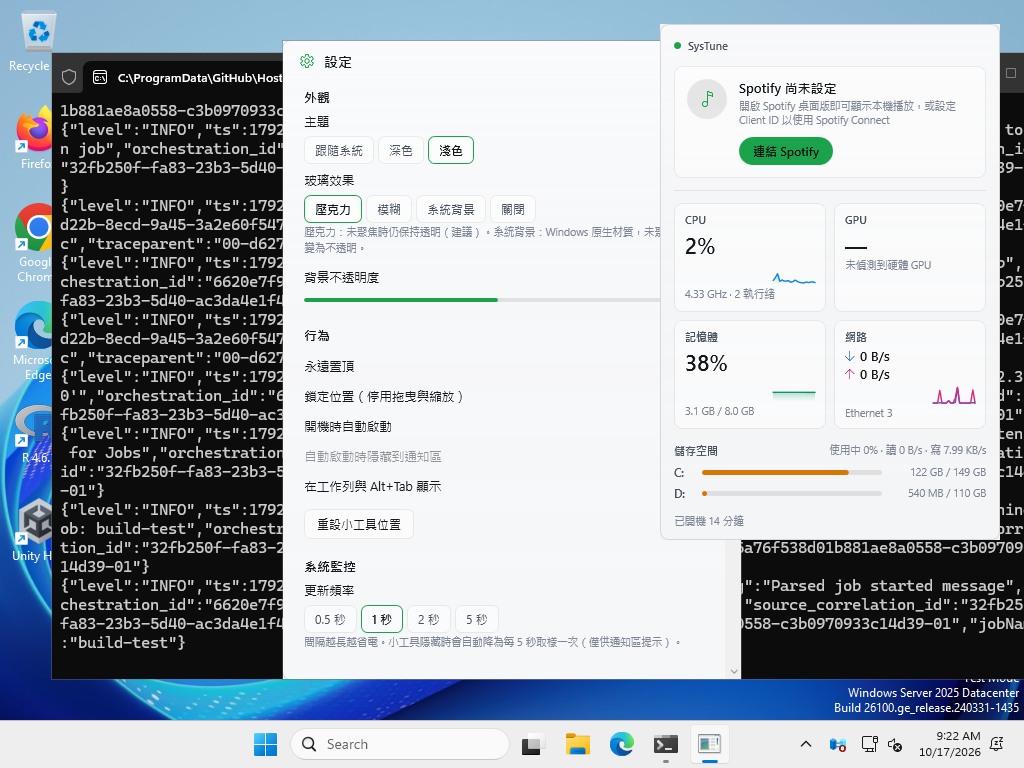
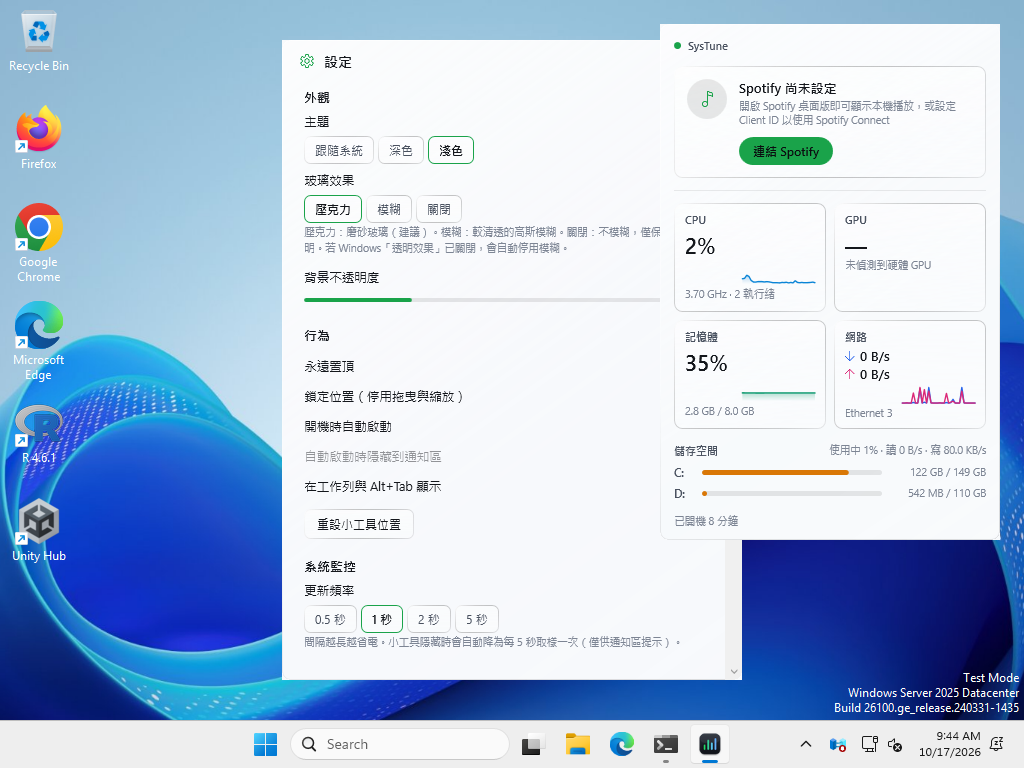
Docs: CI-verified translucency, glass limitations; rename Off to 無模糊
Claude-Session: https://claude.ai/code/session_01A3e8n5PKRFLLhBTb5eY7mF

diff --git a/src/SysTune.App/Views/SettingsWindow.xaml b/src/SysTune.App/Views/SettingsWindow.xaml
@@ -78,7 +78,7 @@
                     <WrapPanel>
                         <RadioButton Style="{StaticResource Segment}" GroupName="Glass" Content="壓克力" IsChecked="{Binding Glass, Converter={StaticResource EnumEquals}, ConverterParameter=Acrylic}" />
                         <RadioButton Style="{StaticResource Segment}" GroupName="Glass" Content="模糊" IsChecked="{Binding Glass, Converter={StaticResource EnumEquals}, ConverterParameter=Blur}" />
-                        <RadioButton Style="{StaticResource Segment}" GroupName="Glass" Content="關閉" IsChecked="{Binding Glass, Converter={StaticResource EnumEquals}, ConverterParameter=Off}" />
+                        <RadioButton Style="{StaticResource Segment}" GroupName="Glass" Content="無模糊" IsChecked="{Binding Glass, Converter={StaticResource EnumEquals}, ConverterParameter=Off}" />
                     </WrapPanel>
                     <TextBlock Text="{Binding GlassNote}" Style="{StaticResource Hint}" />
 

diff --git a/src/SysTune.App/ViewModels/SettingsViewModel.cs b/src/SysTune.App/ViewModels/SettingsViewModel.cs
@@ -73,8 +73,8 @@ public sealed partial class SettingsViewModel : ObservableObject
     public string RedirectUri => S.Spotify.RedirectUri;
 
     public string GlassNote => WindowEffects.IsWindows11
-        ? "壓克力：磨砂玻璃（建議）。模糊：較清透的高斯模糊。關閉：不模糊，僅保留半透明。若 Windows「透明效果」已關閉，會自動停用模糊。"
-        : "Windows 10 使用模糊效果（壓克力在 Windows 10 拖曳時會延遲）。關閉：不模糊，僅保留半透明。";
+        ? "壓克力：磨砂玻璃（建議）。模糊：較清透的高斯模糊。無模糊：不模糊，僅保留半透明。若 Windows「透明效果」已關閉，會自動停用模糊。"
+        : "Windows 10 使用模糊效果（壓克力在 Windows 10 拖曳時會延遲）。無模糊：不模糊，僅保留半透明。";
 
     public string VersionText => "版本 " + (Assembly.GetExecutingAssembly().GetCustomAttribute<AssemblyInformationalVersionAttribute>()?.InformationalVersion.Split('+')[0] ?? "1.0.0");
 

diff --git a/docs/TESTING.md b/docs/TESTING.md
@@ -58,13 +58,19 @@
 2. 第一次取樣時 `now - TimeSpan.MinValue` 溢位，導致所有指標顯示「—」→ 改用 nullable 時間戳。
 3. 雲端 VM 的網卡名為「Hyper-V Network Adapter」被誤判為虛擬網卡而顯示離線 → 改以「是否有預設閘道」選擇介面卡。
 
-截圖見 [`docs/screenshots`](screenshots/)（`*-full.png` 為完整螢幕）。CI Runner 的背景是終端機視窗且為伺服器版 Windows，壓克力模糊的實際觀感需在一般桌面確認。
+截圖見 [`docs/screenshots`](screenshots/)（`*-full.png` 為完整螢幕）。
+
+**玻璃／透明效果的驗證**：CI 會先開啟 Windows「透明效果」並最小化所有視窗，讓小工具直接疊在桌布上。
+- `dark-noblur`（無模糊模式）：桌布與背後的系統對話框清楚透出 → **WPF 逐像素透明（分層視窗）在 Windows 上已驗證有效**。
+- `dark-expanded`（壓克力模式）：記錄檔顯示 accent 已成功套用（`effective Acrylic, WPF render tier 2`），但畫面為實色。原因是 CI 虛擬機只有基本顯示驅動（無 GPU），Windows 在此環境以實色取代背景模糊。**模糊本身需在有 GPU 的實體電腦上確認**（列於人工驗證清單）。
+
+最新一次量測（分層視窗版本）：深色展開 59.7 MB 私有記憶體、CPU 1.56%（整機）/ 3.1%（單核心）；精簡模式 52.5 MB、0.86% / 1.7%。
 
 ## 人工驗證清單（實體 Windows 電腦）
 
 以下項目依賴實體硬體、使用者帳號或互動，目前**尚未**在實體電腦驗證：
 
-- [ ] Win11 壓克力／Win10 模糊效果的實際觀感、圓角與陰影
+- [ ] Win11 壓克力／Win10 模糊效果的實際觀感與圓角（CI 虛擬機無 GPU，無法呈現模糊）
 - [ ] 實體 GPU（NVIDIA / AMD / Intel）使用率與工作管理員一致；GPU 溫度
 - [ ] 以系統管理員執行 + PawnIO 時的 CPU 封裝溫度
 - [ ] Spotify Connect 實際登入、跨裝置顯示、切換裝置、音量、拖曳進度（需要 Premium 與開發者應用程式）
@@ -79,8 +85,8 @@
 - **CPU 溫度**：一般權限下只能讀取 ACPI 熱區（很多桌機主機板不提供，或數值固定）；CPU 封裝溫度需系統管理員權限 + 使用者自行安裝 PawnIO 驅動。
 - **Spotify 開發模式限制（2026/02 起）**：應用程式擁有者需 Premium；每個應用程式最多 5 位使用者；播放控制需 Premium。
 - **本機模式**只能看到這台電腦的 Spotify 桌面版，不能切換裝置或調整 Connect 音量；Microsoft Store 版與傳統版都支援。
-- **壓克力 accent API**（`SetWindowCompositionAttribute`）是 Windows 殼層長期使用但未公開文件化的 API；若未來 Windows 版本改變行為，可在設定改用「系統背景」（文件化 API）或「模糊」/「關閉」。
-- **「系統背景」模式**在視窗未聚焦時會變成不透明（Windows 設計如此）。
-- Windows「透明效果」關閉時自動改為不透明背景。
+- **壓克力 accent API**（`SetWindowCompositionAttribute`）是 Windows 殼層長期使用但未公開文件化的 API；若未來 Windows 版本改變行為，可在設定改用「無模糊」（純 WPF 半透明，不依賴該 API）。
+- 沒有 GPU 的虛擬機、部分遠端桌面工作階段、或 Windows「透明效果」／省電模式關閉時，Windows 不會繪製背景模糊（小工具仍為半透明或自動改為較不透明的底色以維持可讀性）。
+- 分層視窗沒有 Windows 11 原生視窗陰影；以玻璃高光邊框呈現層次。圓角以視窗區域裁切，邊緣不做反鋸齒。
 - 執行檔未經程式碼簽章，SmartScreen 會在首次執行時警告。
 - 介面目前僅提供繁體中文。

diff --git a/docs/ARCHITECTURE.md b/docs/ARCHITECTURE.md
@@ -6,7 +6,7 @@
 | --- | --- | --- |
 | 語言／執行環境 | C# 14 / **.NET 10 (LTS)** | 長期支援至 2028 年；可直接 P/Invoke Win32、DWM、PDH；可在 Linux CI 交叉編譯並在 Windows Runner 實測。 |
 | UI 框架 | **WPF** | 成熟穩定、硬體加速、支援 PerMonitorV2 DPI；可完全自訂樣式。WinUI 3 需要 Windows App SDK 執行階段與封裝，對單一小工具負擔較大；Electron/Tauri 記憶體或整合成本較高。 |
-| 玻璃效果 | DWM 延伸框架 + `SetWindowCompositionAttribute` 壓克力（Win11）/ 模糊（Win10），可選 `DWMWA_SYSTEMBACKDROP_TYPE` | 小工具幾乎都處於「未聚焦」狀態；DWM 系統背景材質在未聚焦時會變不透明，accent 壓克力不會。非分層（non-layered）視窗避免 `AllowsTransparency` 的軟體合成成本，並保留 Win11 原生圓角與陰影。 |
+| 玻璃效果 | 逐像素透明的分層視窗（`AllowsTransparency`）+ `SetWindowCompositionAttribute` 壓克力（Win11）/ 模糊（Win10）+ 圓角視窗區域 | 小工具幾乎都處於「未聚焦」狀態；DWM 系統背景材質在未聚焦時會變不透明，accent 壓克力不會。分層視窗的透明度不依賴 DWM 延伸框架，在 CI 實測可正確透出桌布；「無模糊」模式完全不依賴未文件化 API。 |
 | CPU 使用率 | `GetSystemTimes` 差值 | 與工作管理員一致、零配置、極低成本。 |
 | CPU 時脈 | PDH `Processor Information\% Processor Performance` × 基準時脈 | 工作管理員相同算法，免管理員權限。 |
 | GPU 使用率／VRAM | PDH `GPU Engine` / `GPU Adapter Memory` + **DXGI** 列舉介面卡 | 與工作管理員同源；Intel / AMD / NVIDIA 通用，不需廠商 SDK；以 LUID 對應介面卡。 |
@@ -77,7 +77,7 @@ DispatcherTimer 500ms (僅可見時) ──► 進度條外插（不打 API）
 - **方向**：Minimal / Glassmorphism / Premium / Windows Native。
 - **尺寸**：展開 340 DIP 寬（高度依內容），精簡 460×56 DIP 膠囊；右下角拖曳可等比縮放 85%–160%（保持設計比例，而非重新排版）。
 - **字體**：Segoe UI（中文退回 Microsoft JhengHei UI）；圖示使用 Segoe Fluent Icons（Win10 退回 Segoe MDL2 Assets），與系統一致且不需額外資源。
-- **層次**：玻璃（系統模糊）→ 可調不透明度的色調層 → 頂部微光漸層 → 1px 髮絲邊框；指標卡片使用極淡的白色/黑色疊層。
+- **層次**：系統模糊（含極淡底色，確保亮色桌布上的可讀性）→ 可調不透明度的色調層（預設 35%）→ 對角線光澤 → 左上亮、右下暗的漸層玻璃邊緣；指標卡片為半透明漸層並帶高光邊框。
 - **色彩**：每個指標固定一個語意色（CPU 青藍、GPU 紫、記憶體綠、下載藍、上傳粉、磁碟琥珀、Spotify 綠），淺色主題使用加深版本以確保對比。
 - **互動**：標題列按鈕只在滑鼠移入時淡入，平時畫面只有資訊；任何空白處可拖曳；Esc 隱藏、空白鍵播放/暫停、Ctrl+←/→ 切歌、Ctrl+, 設定。
 - **動畫**：只在有意義的地方使用（按鈕淡入、磁碟條 350ms 緩動、播放鍵微放大），尊重系統「顯示動畫」設定。

diff --git a/README.md b/README.md
@@ -28,7 +28,7 @@
 - OAuth PKCE、Token 以 DPAPI 加密；網路斷線、429 限流、授權撤銷都會自動處理，**不影響系統監控**
 
 **桌面小工具**
-- 壓克力／模糊玻璃效果、Win11 原生圓角與陰影、深色／淺色／跟隨系統
+- 半透明玻璃：壓克力（磨砂）／模糊／無模糊三種效果、玻璃高光邊框與光澤、Win11 圓角、深色／淺色／跟隨系統
 - 展開模式與精簡膠囊模式（各自記住位置與大小）
 - 拖曳移動、右下角等比縮放、永遠置頂、鎖定位置、背景不透明度調整
 - 通知區圖示（左鍵顯示/隱藏、右鍵選單、滑鼠停留顯示 CPU/RAM/網速）
@@ -40,9 +40,15 @@
 
 截圖由 CI 在 GitHub Actions 的 Windows Server 2025 Runner 上實際執行 SysTune 自動擷取，顯示的是該虛擬機的真實資料（無 GPU、未連結 Spotify）。詳見 [docs/TESTING.md](docs/TESTING.md)。
 
-| 深色・展開 | 淺色・設定 | 精簡模式 |
-| --- | --- | --- |
-| ![dark](docs/screenshots/dark-expanded.png) | ![light](docs/screenshots/light-settings.png) | ![compact](docs/screenshots/dark-compact.png) |
+| 深色・半透明（無模糊模式，可見桌布與背後視窗透出） | 淺色・設定 |
+| --- | --- |
+| ![dark translucent](docs/screenshots/dark-noblur.png) | ![light](docs/screenshots/light-settings.png) |
+
+精簡模式：
+
+![compact](docs/screenshots/dark-compact.png)
+
+> CI 虛擬機沒有 GPU，Windows 在這種環境會把壓克力／模糊背景改畫成實色，所以 CI 只能截到「無模糊」的半透明效果；在有顯示卡的一般電腦上，預設的壓克力模式會在半透明之外再加上背景模糊（磨砂玻璃）。
 
 ## 安裝
 

diff --git a/CHANGELOG.md b/CHANGELOG.md
@@ -9,7 +9,7 @@
 - 60 秒走勢迷你圖。
 - Spotify Web API 整合（PKCE、DPAPI 加密 Token、自適應輪詢、429/離線/授權撤銷處理）：播放資訊、Spotify Connect 裝置顯示與切換、播放控制、音量、拖曳進度、隨機、重複。
 - 本機 Spotify 備援（Windows 媒體工作階段），免登入。
-- 玻璃效果（壓克力／模糊／系統背景／關閉）、深色／淺色／跟隨系統主題、背景不透明度。
+- 半透明玻璃（壓克力／模糊／無模糊）、漸層玻璃邊緣與光澤、深色／淺色／跟隨系統主題、背景不透明度（10%–100%，預設 35%）。
 - 展開與精簡模式、等比縮放、永遠置頂、鎖定位置、通知區圖示與選單、開機自動啟動、單一執行個體。
 - 多螢幕／PerMonitorV2 DPI 位置保存與還原。
 - Inno Setup 安裝檔（每使用者、免管理員）與可攜版；x64 與 ARM64。
